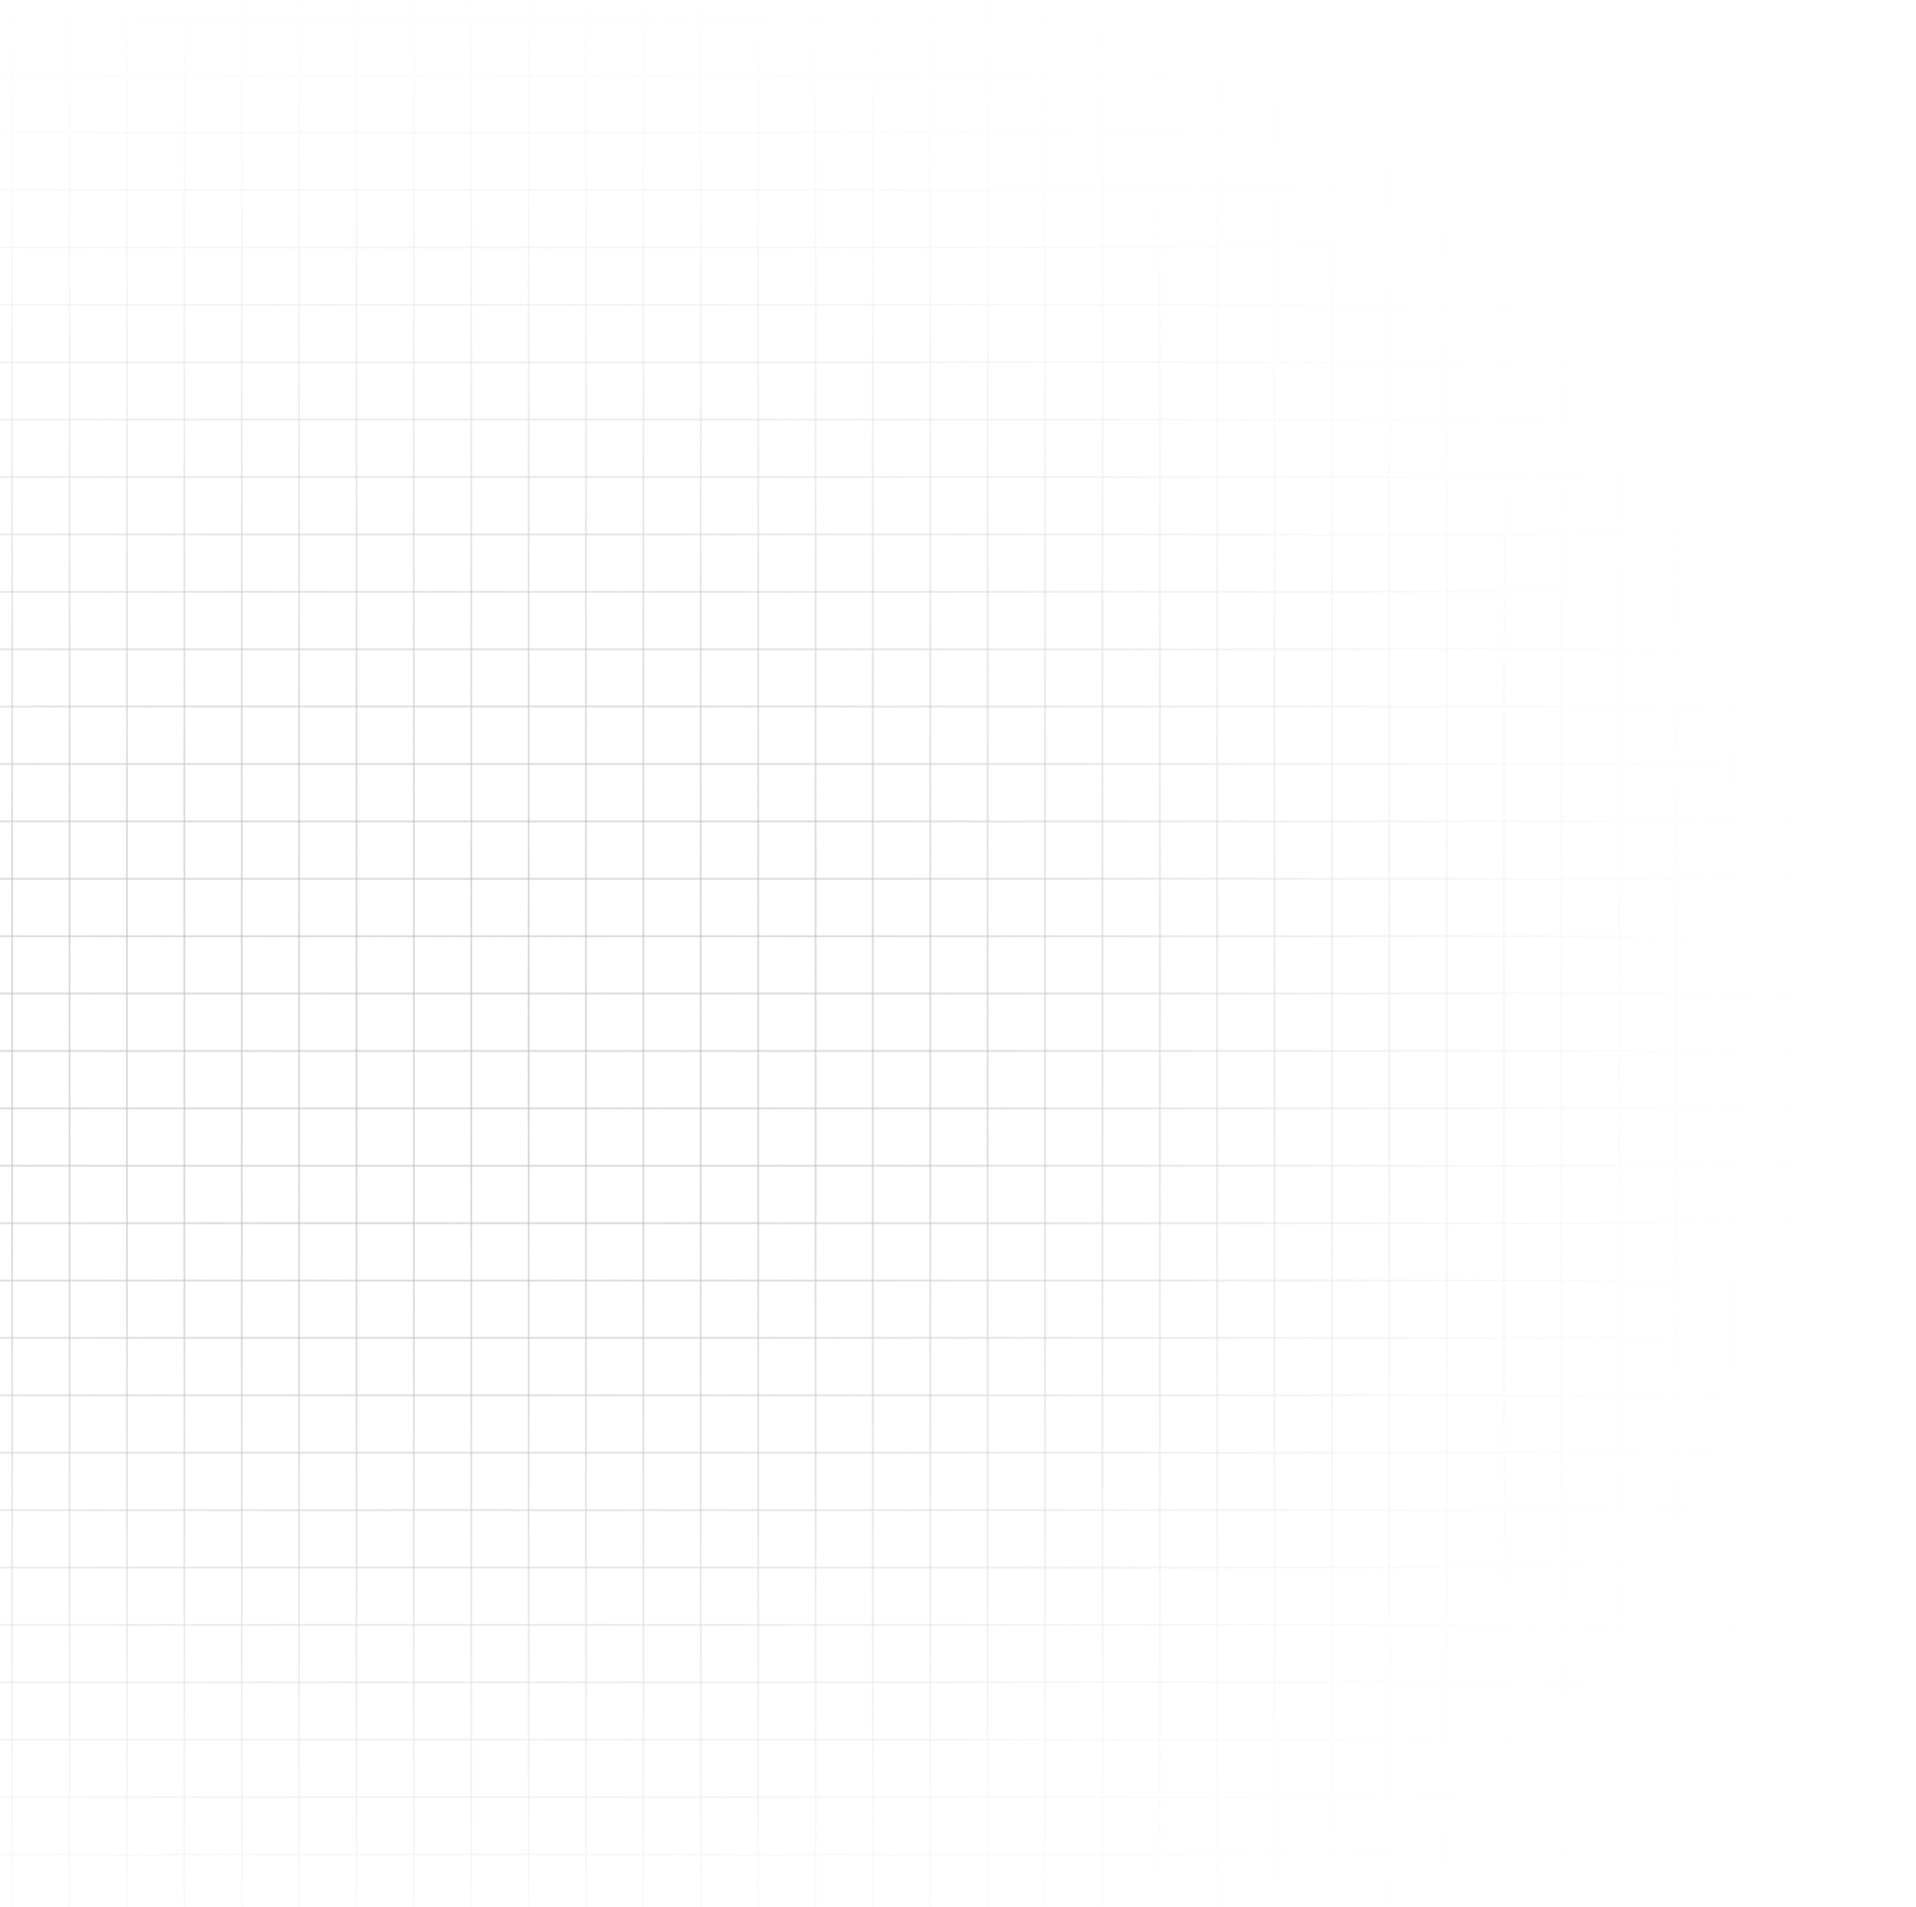
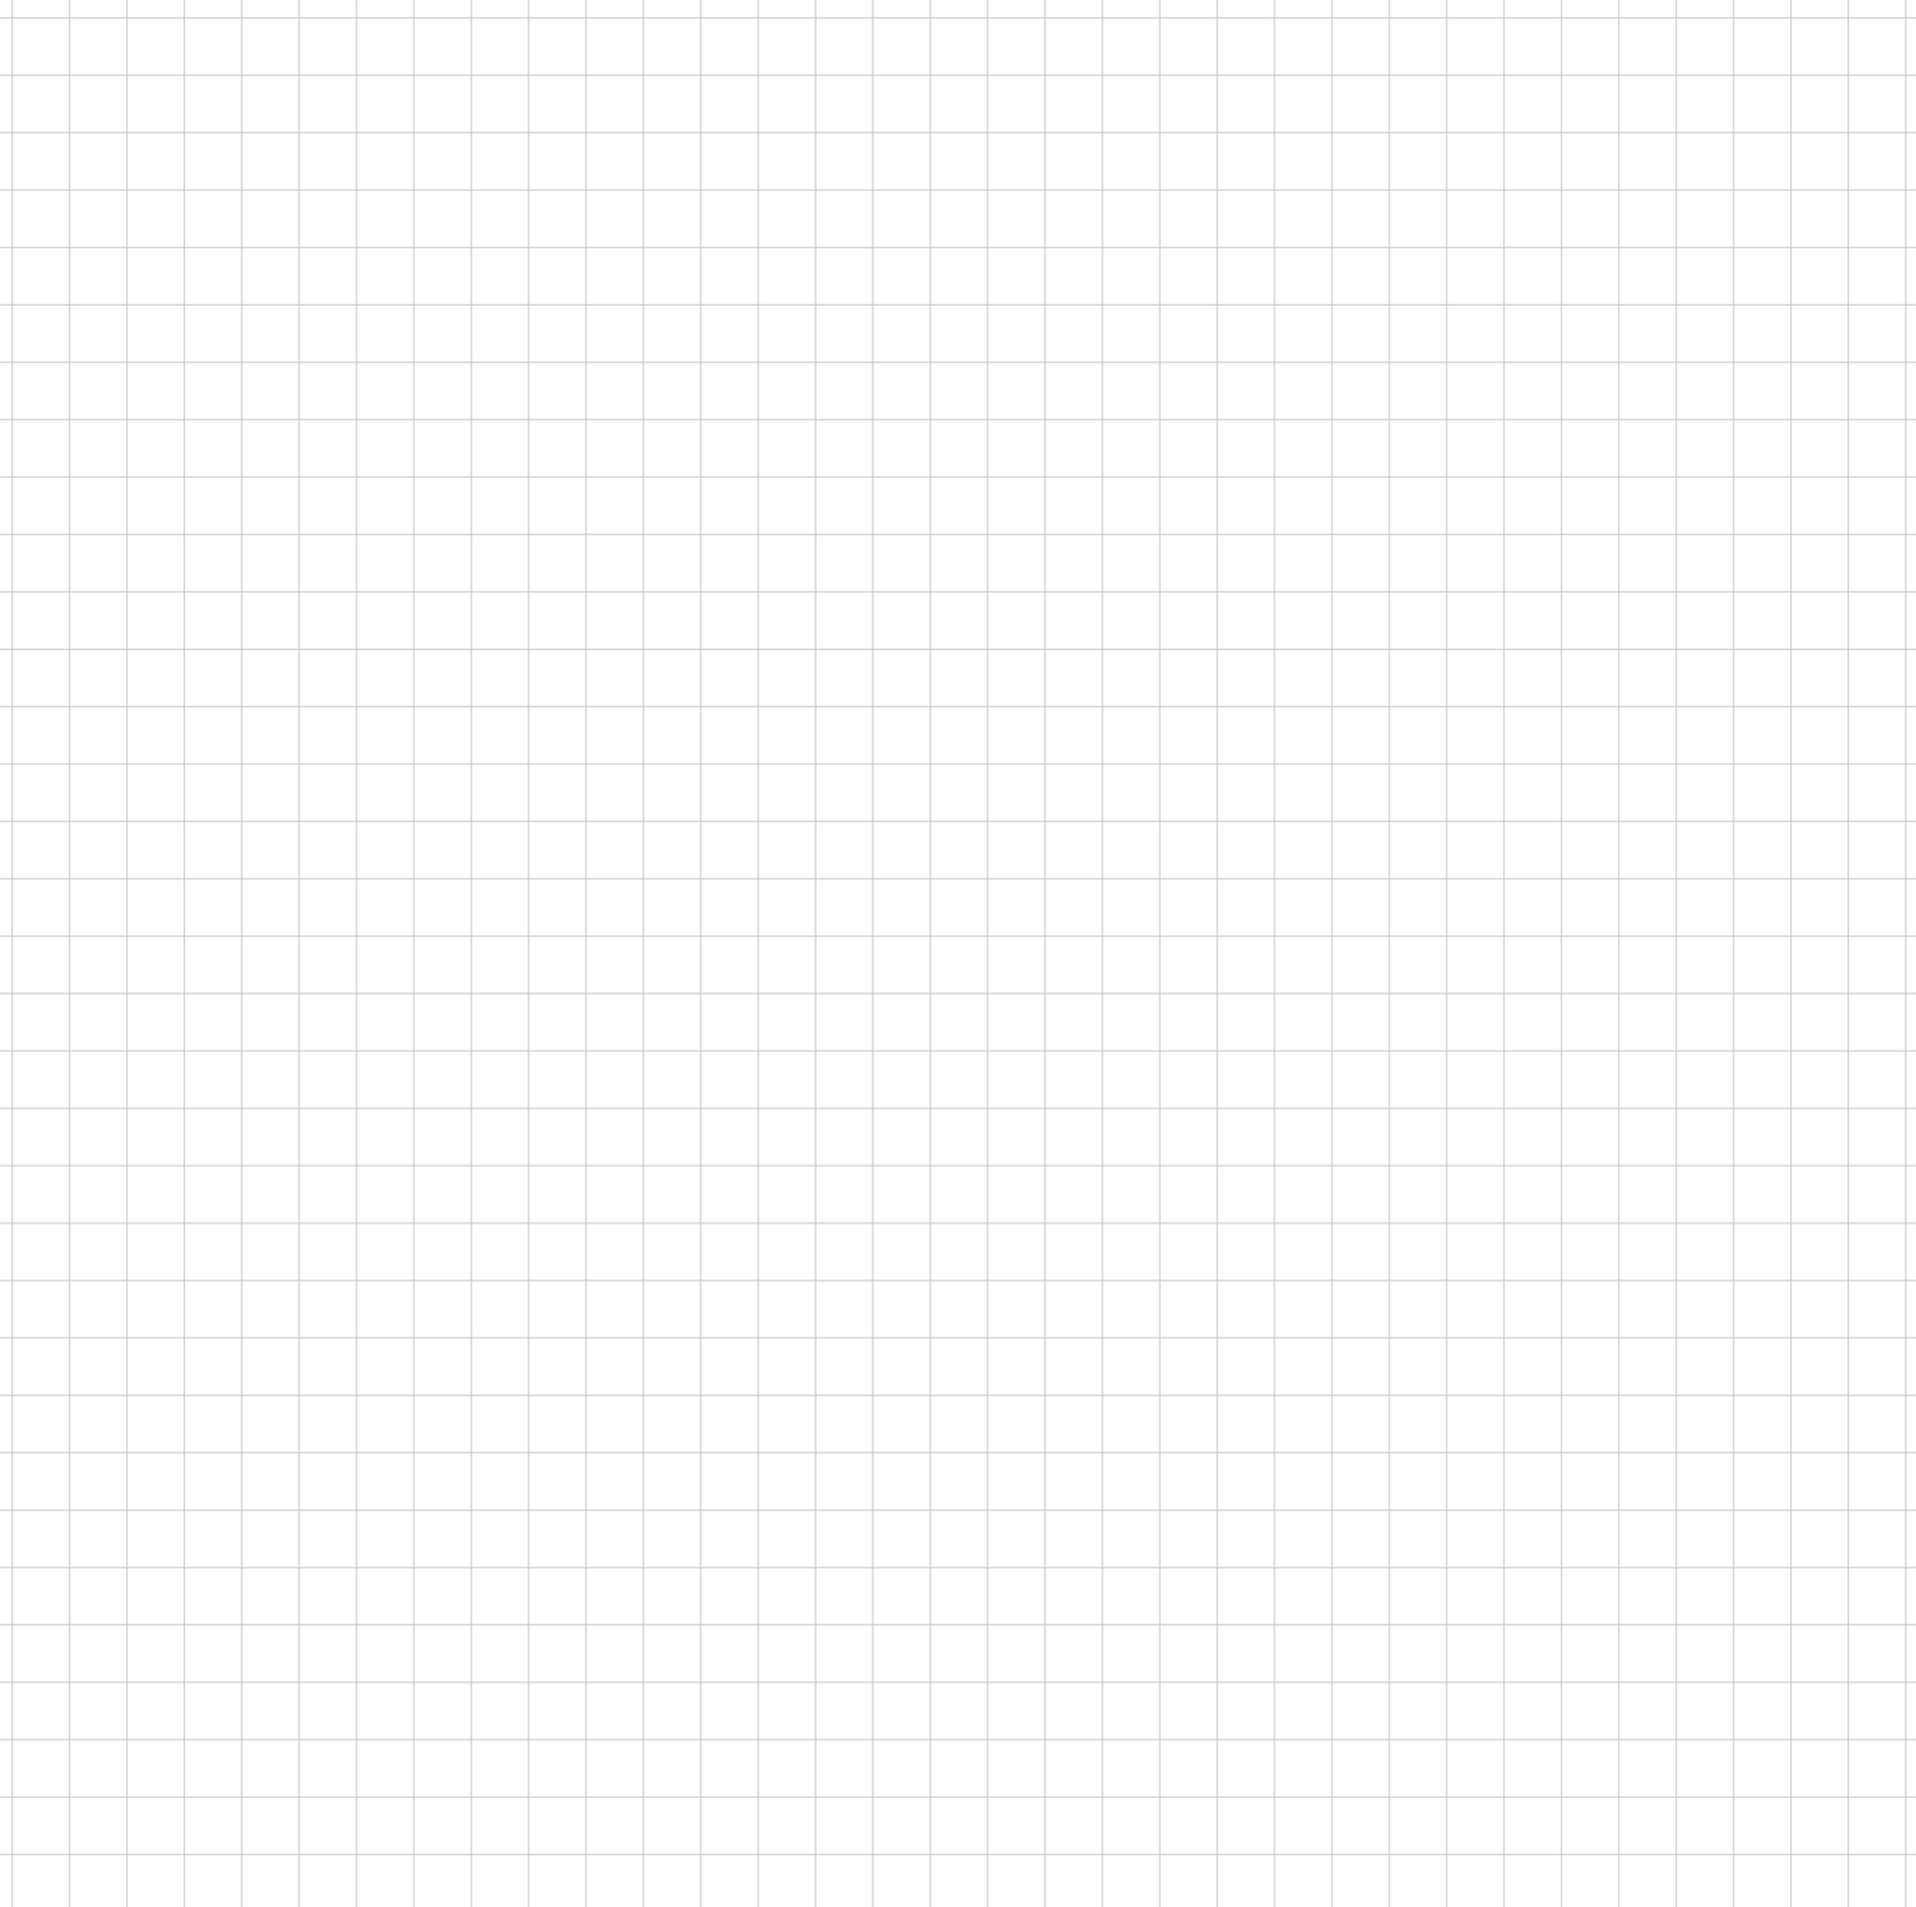
Fixed styling to use ellipse mask instead of resizing png

Changed region(s): [[0.9902, 0.0, 1.0, 0.9951]]

diff --git a/src/components/Gears/GearSection.jsx b/src/components/Gears/GearSection.jsx
@@ -13,8 +13,14 @@ const gearsData = [
 const GearSection = () => {
     return (
         <div className="gear-section">
+            {/*<div className="gear-background">*/}
+            {/*    <img src={`${process.env.PUBLIC_URL}/gears/gear_bg_ellipse.png`} className="ellipse"/>*/}
+            {/*</div>*/}
             <div className="gear-train">
-                <img src={`${process.env.PUBLIC_URL}/gears/gear_bg.png`} className="gear-background" alt="gear background"/>
+                <img src={`${process.env.PUBLIC_URL}/gears/gear_bg.png`}
+                     className="gear-background"
+                     alt="gear background"
+                />
                 <GearTrain gears={gearsData}></GearTrain>
             </div>
             <div className="text-column">

diff --git a/src/components/Gears/GearSection.css b/src/components/Gears/GearSection.css
@@ -5,13 +5,19 @@
 }
 
 .gear-section .gear-train{
-    @apply h-fit inline-block pl-[150px];
+    @apply h-fit inline-block pl-[150px] relative;
 }
 
 .gear-section .gear-background {
-    @apply w-2/3 absolute left-0;
-    height: 1200px;
+    @apply absolute;
+    right: -200px;
+    clip-path: ellipse(50% 30% at 50% 50%);
+    min-width: 1311px;
+    min-height: 1311px;
+    max-width: 1311px;
+    max-height: 1311px;
     top: -100px;
+    mask-image: radial-gradient(ellipse at center, rgba(0,0,0,1) 0%, rgba(0,0,0,1) 20%, rgba(0,0,0,0) 60%);
 }
 
 .gear-section .text-column{
